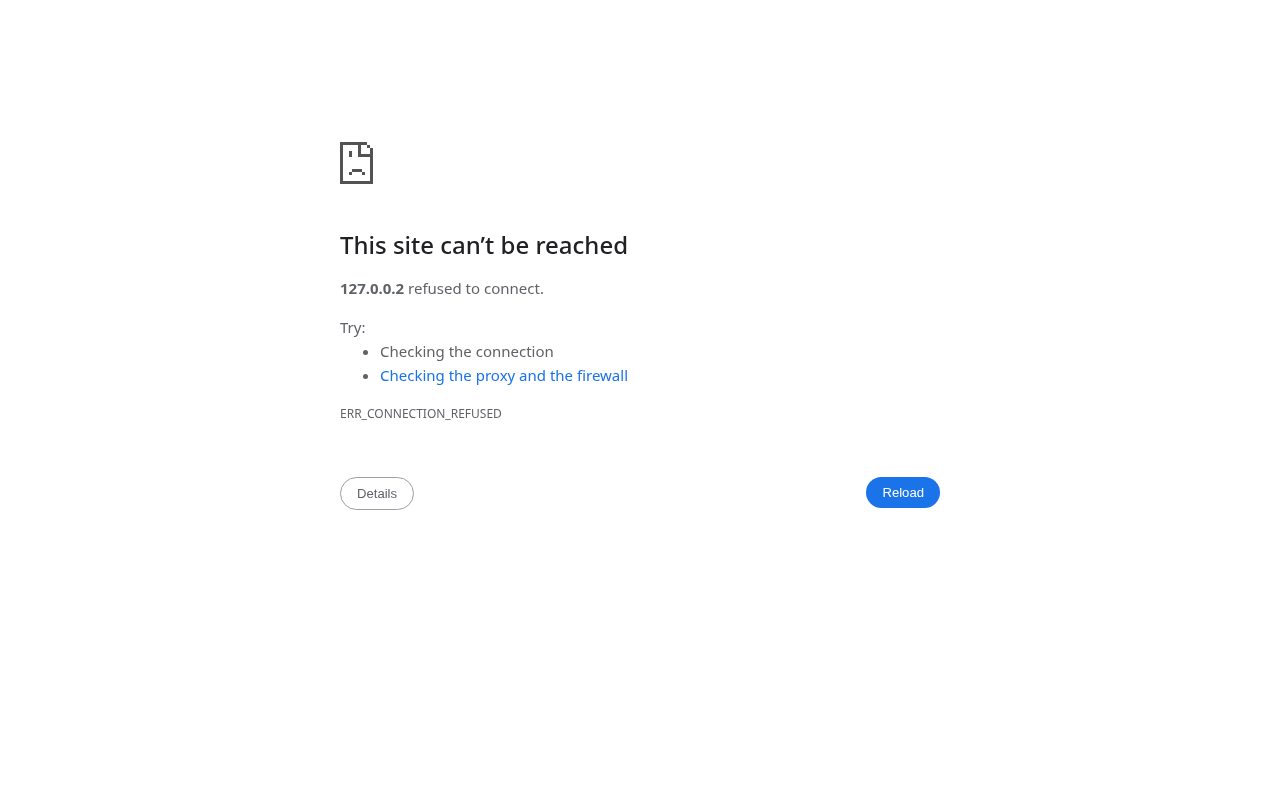
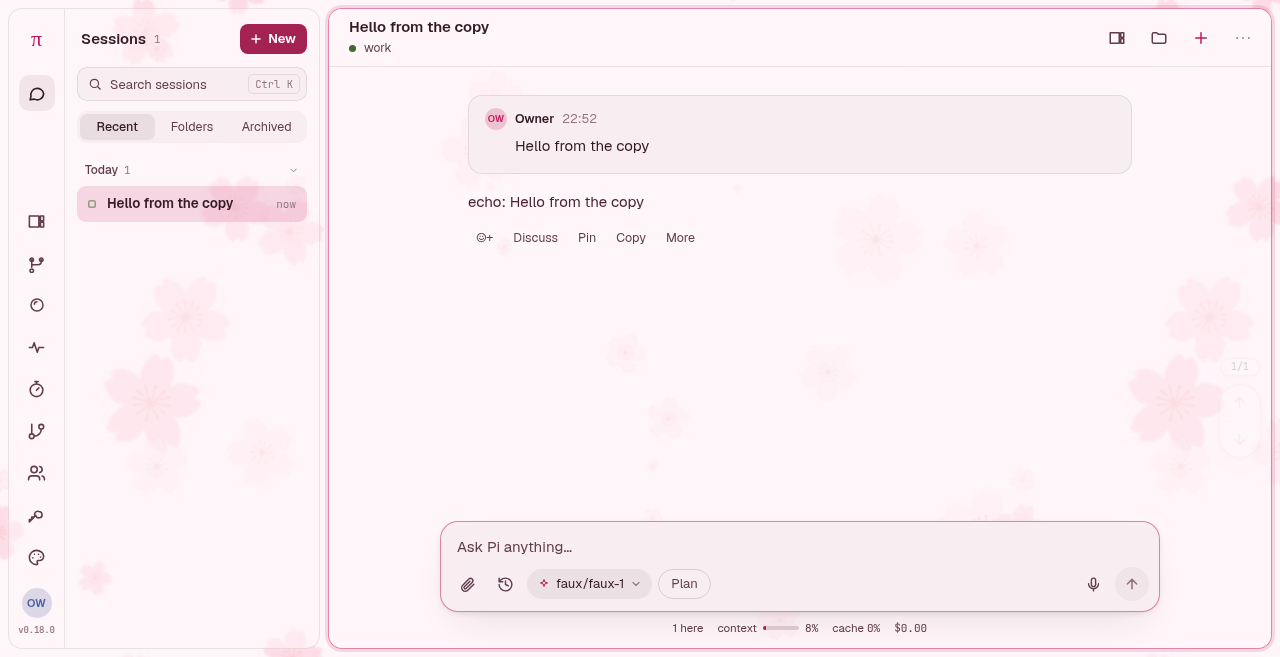
Replace the broken preview with real screenshots

diff --git a/README.md b/README.md
@@ -5,6 +5,10 @@ wallpaper.
 
 ![Pink Sakura](preview.png)
 
+On a phone:
+
+<img src="phone.png" alt="Pink Sakura on a phone" width="390">
+
 The blossoms are cut from a generated render and scattered on a torus, so the 1024 px tile repeats with
 no seam. It tiles in the gaps between the tiled windows and shows through them: the sidebar and the
 conversation are half transparent. The palette travels with the theme (blush-white ground, plum text,
